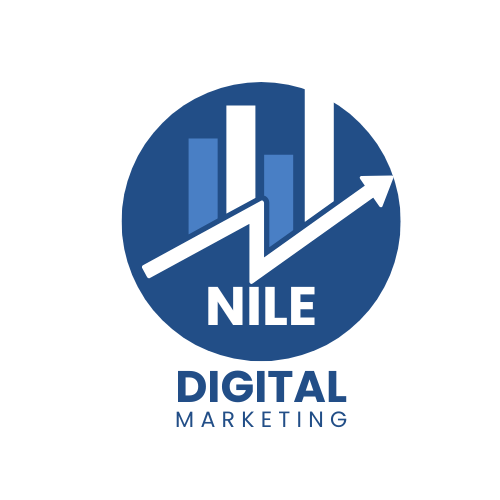
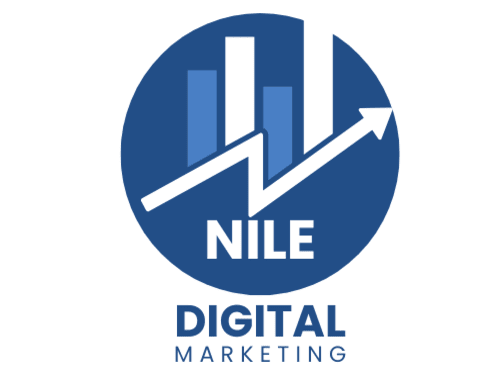
custimized the the page with new images

diff --git a/src/App.css b/src/App.css
@@ -17,7 +17,8 @@ p {
   margin: 0;
 }
 :root {
-  --primary: #5e3bee;
+  --primary: #224e87;
+  --secondary:#477cb7;
   --heading-color: #282938;
   --bg-shade: #f5fcff;
   --github: #e62872;
@@ -180,14 +181,14 @@ h2 {
 
 /* Section Titles */
 .thank-u{
-  color: #5e3bee;
+  color: #477cb7;
   display: flex;
   justify-content: center;
   font-size: large;
 }
 
 .logo-name{
-  color: #5e3bee;
+  color: #477cb7;
   font-weight: bolder;
   font-size: x-large;
 }
@@ -244,7 +245,7 @@ h2 {
   cursor: pointer;
 }
 .navbar--active-content {
-  color: var(--primary);
+  color: var(--secondary);
 }
 /* Navbar Styler Ends */
 
@@ -256,7 +257,7 @@ h2 {
   align-items: center;
   justify-content: space-between;
   gap: 32px;
-  background-color: var(--bg-shade);
+  background-color: var(--white);
 }
 .hero--section--content-box {
   display: flex;
@@ -306,6 +307,7 @@ h2 {
   justify-content: center;
   align-items: flex-start;
   gap: 106.667px;
+  background-color: var(--bg-shade);
 }
 .skills--section--heading {
   color: var(--heading-color);
